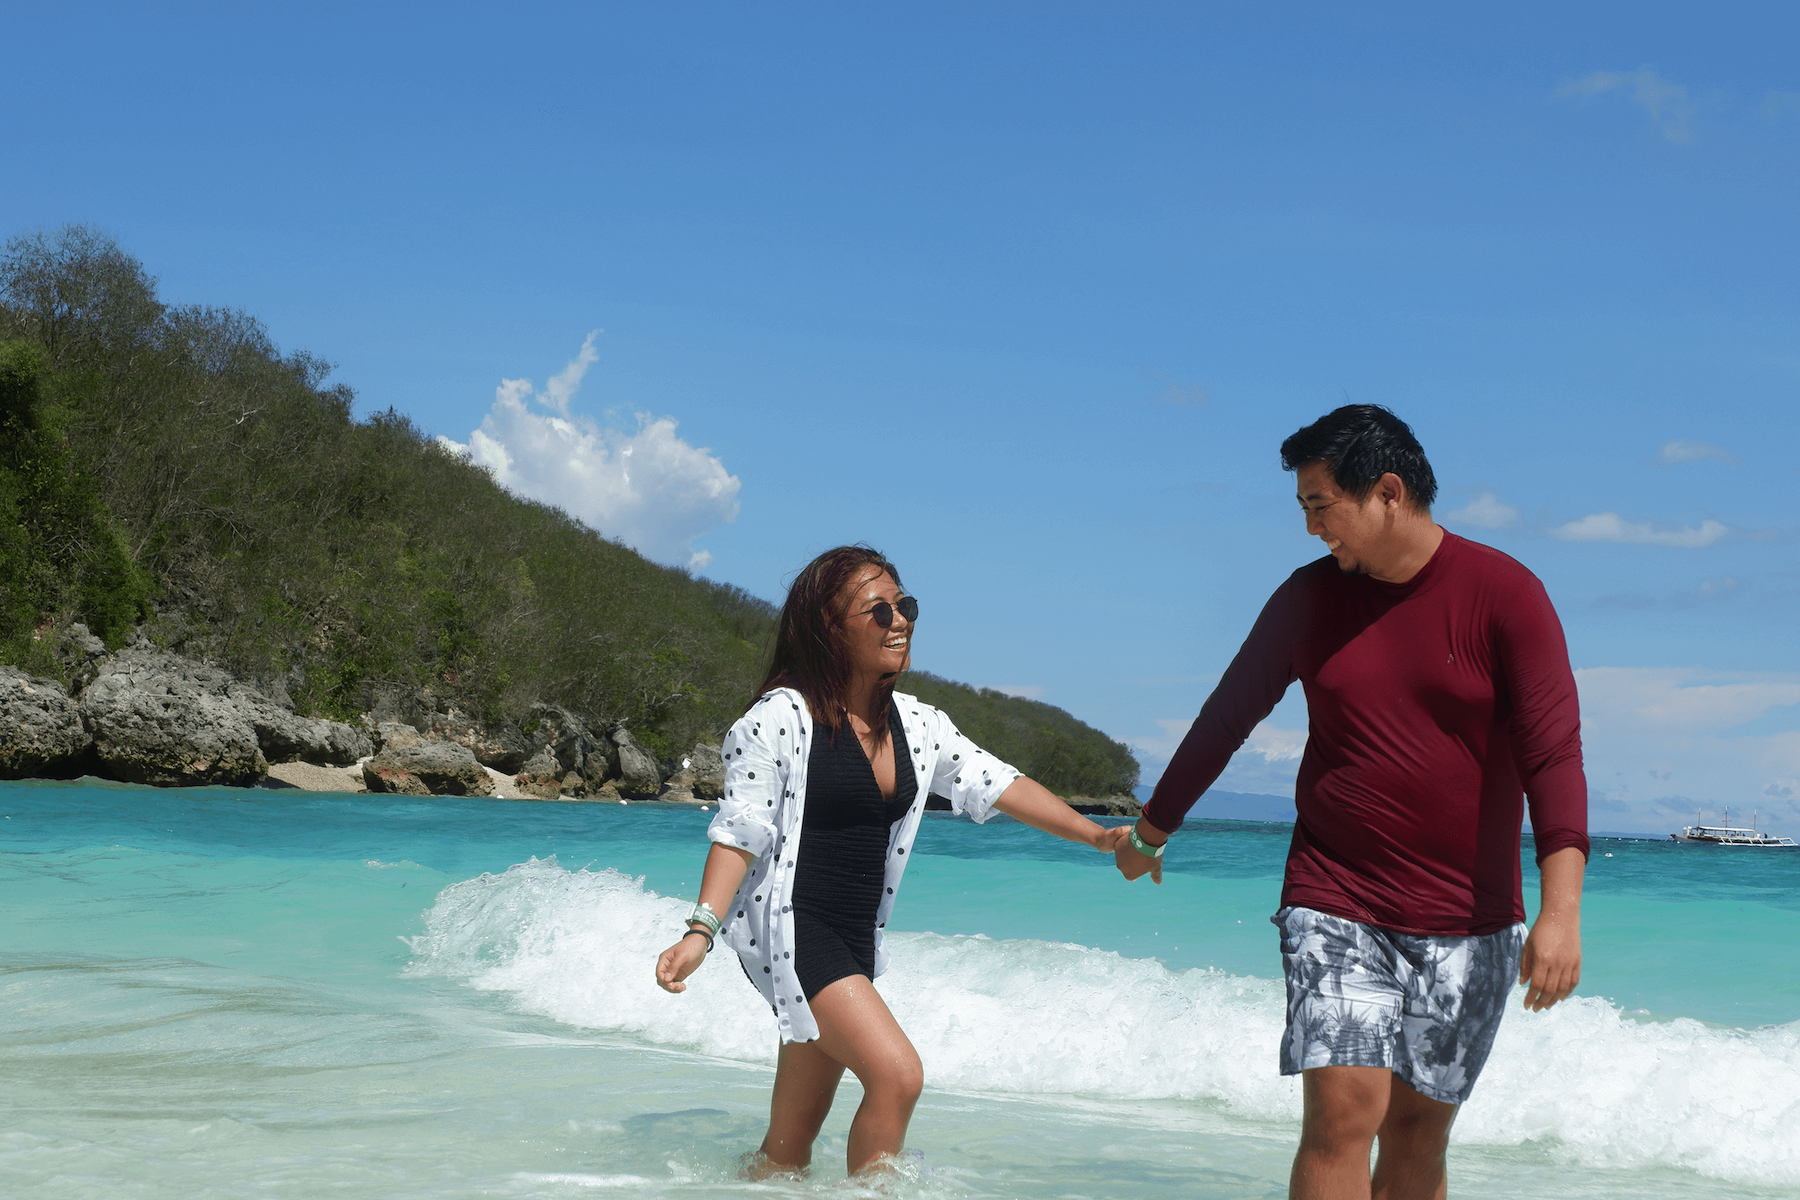
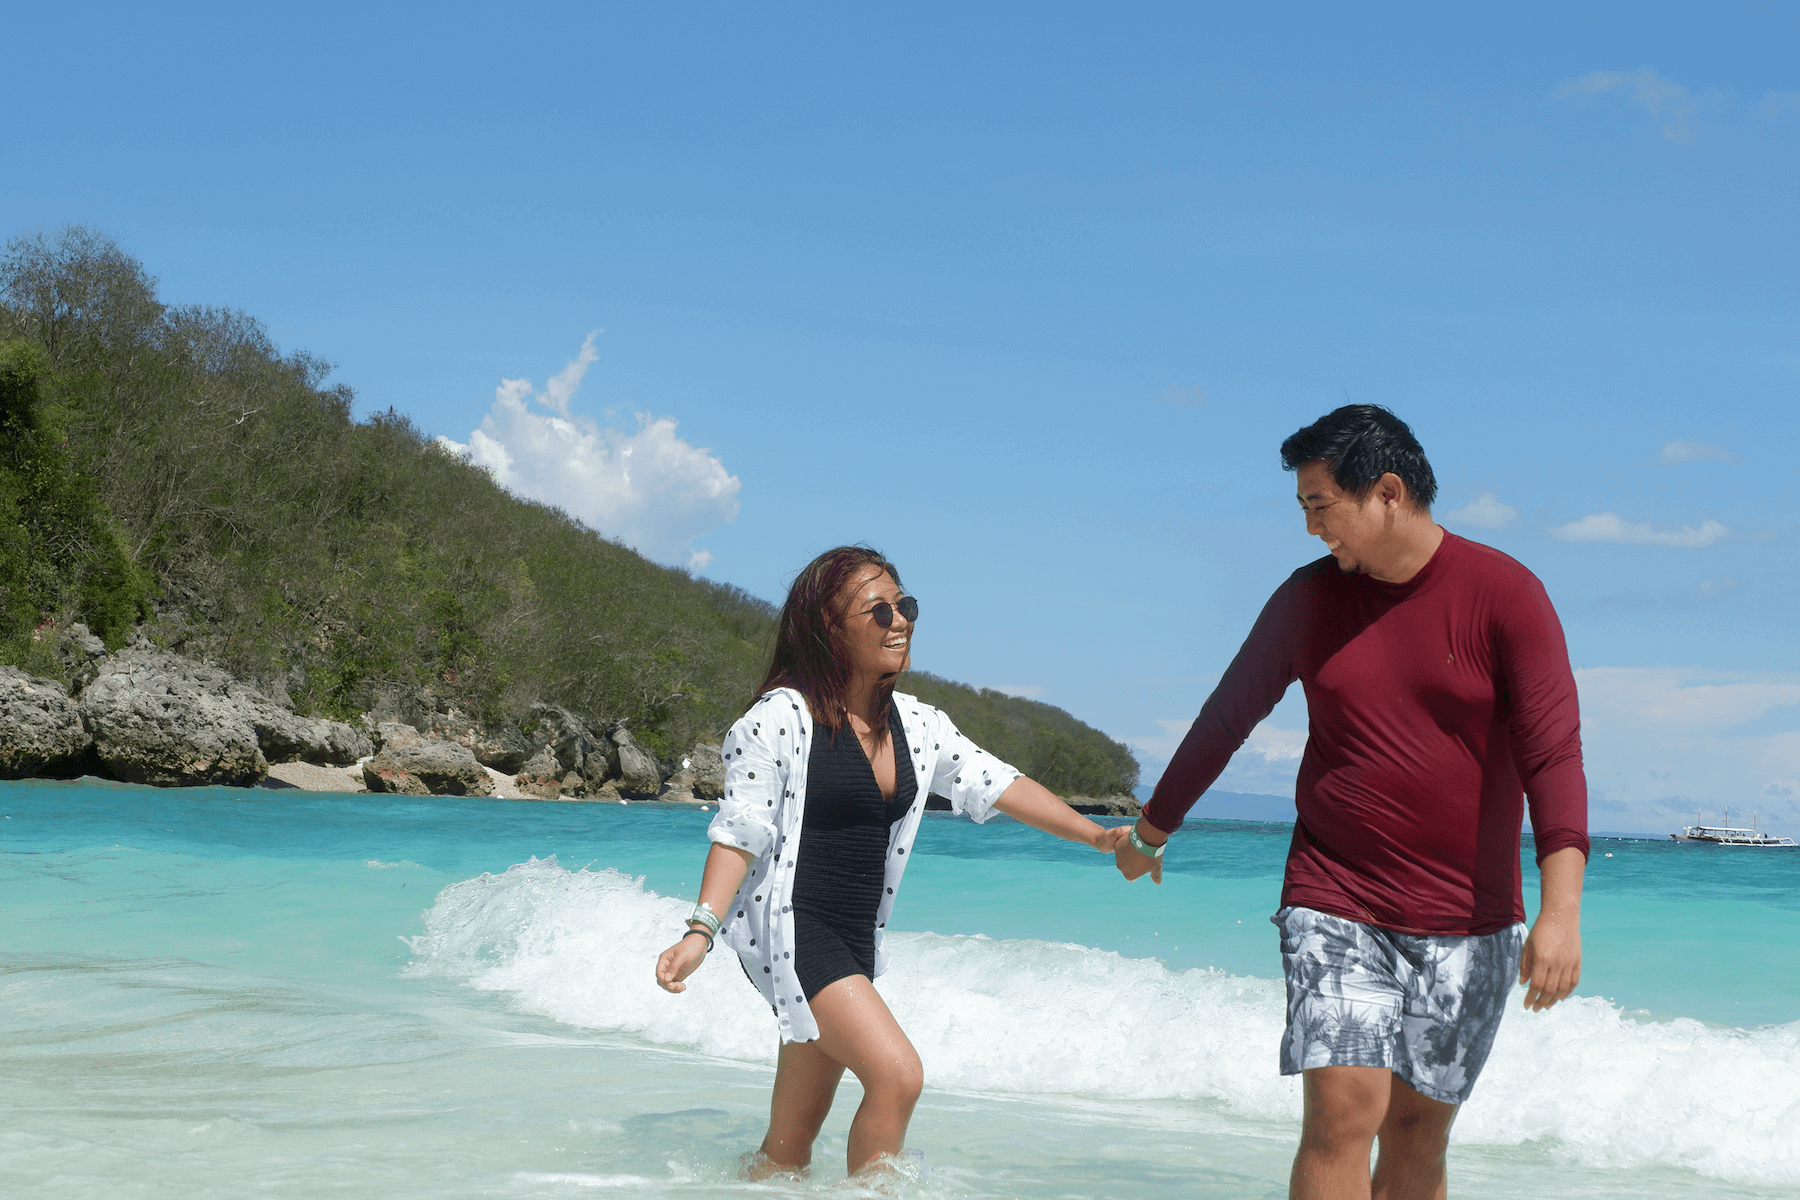
Compress home images, update attire guidelines

diff --git a/src/pages/Event.vue b/src/pages/Event.vue
@@ -625,7 +625,7 @@
             <div class="my-3 px-2 py-3 w-full overflow-hidden">
               <div class="flex-1 space-y-1 px-4">
                 <div class="text-2xl md:text-3xl text-gray-700 font-caveat">
-                  Groom's and Bride's Squad
+                  Entourage
                 </div>
                 <div
                   class="
@@ -636,8 +636,8 @@
                   "
                 >
                   <div class="flex w-1/2 mx-auto items-center">
-                    We'll let you know what we'd expect you to wear. Don't
-                    worry, you'll look good in it.
+                    Gentlemen, come in a suit with blue necktie. Ladies, wear a
+                    dress in our shades of blue.
                   </div>
                 </div>
               </div>
